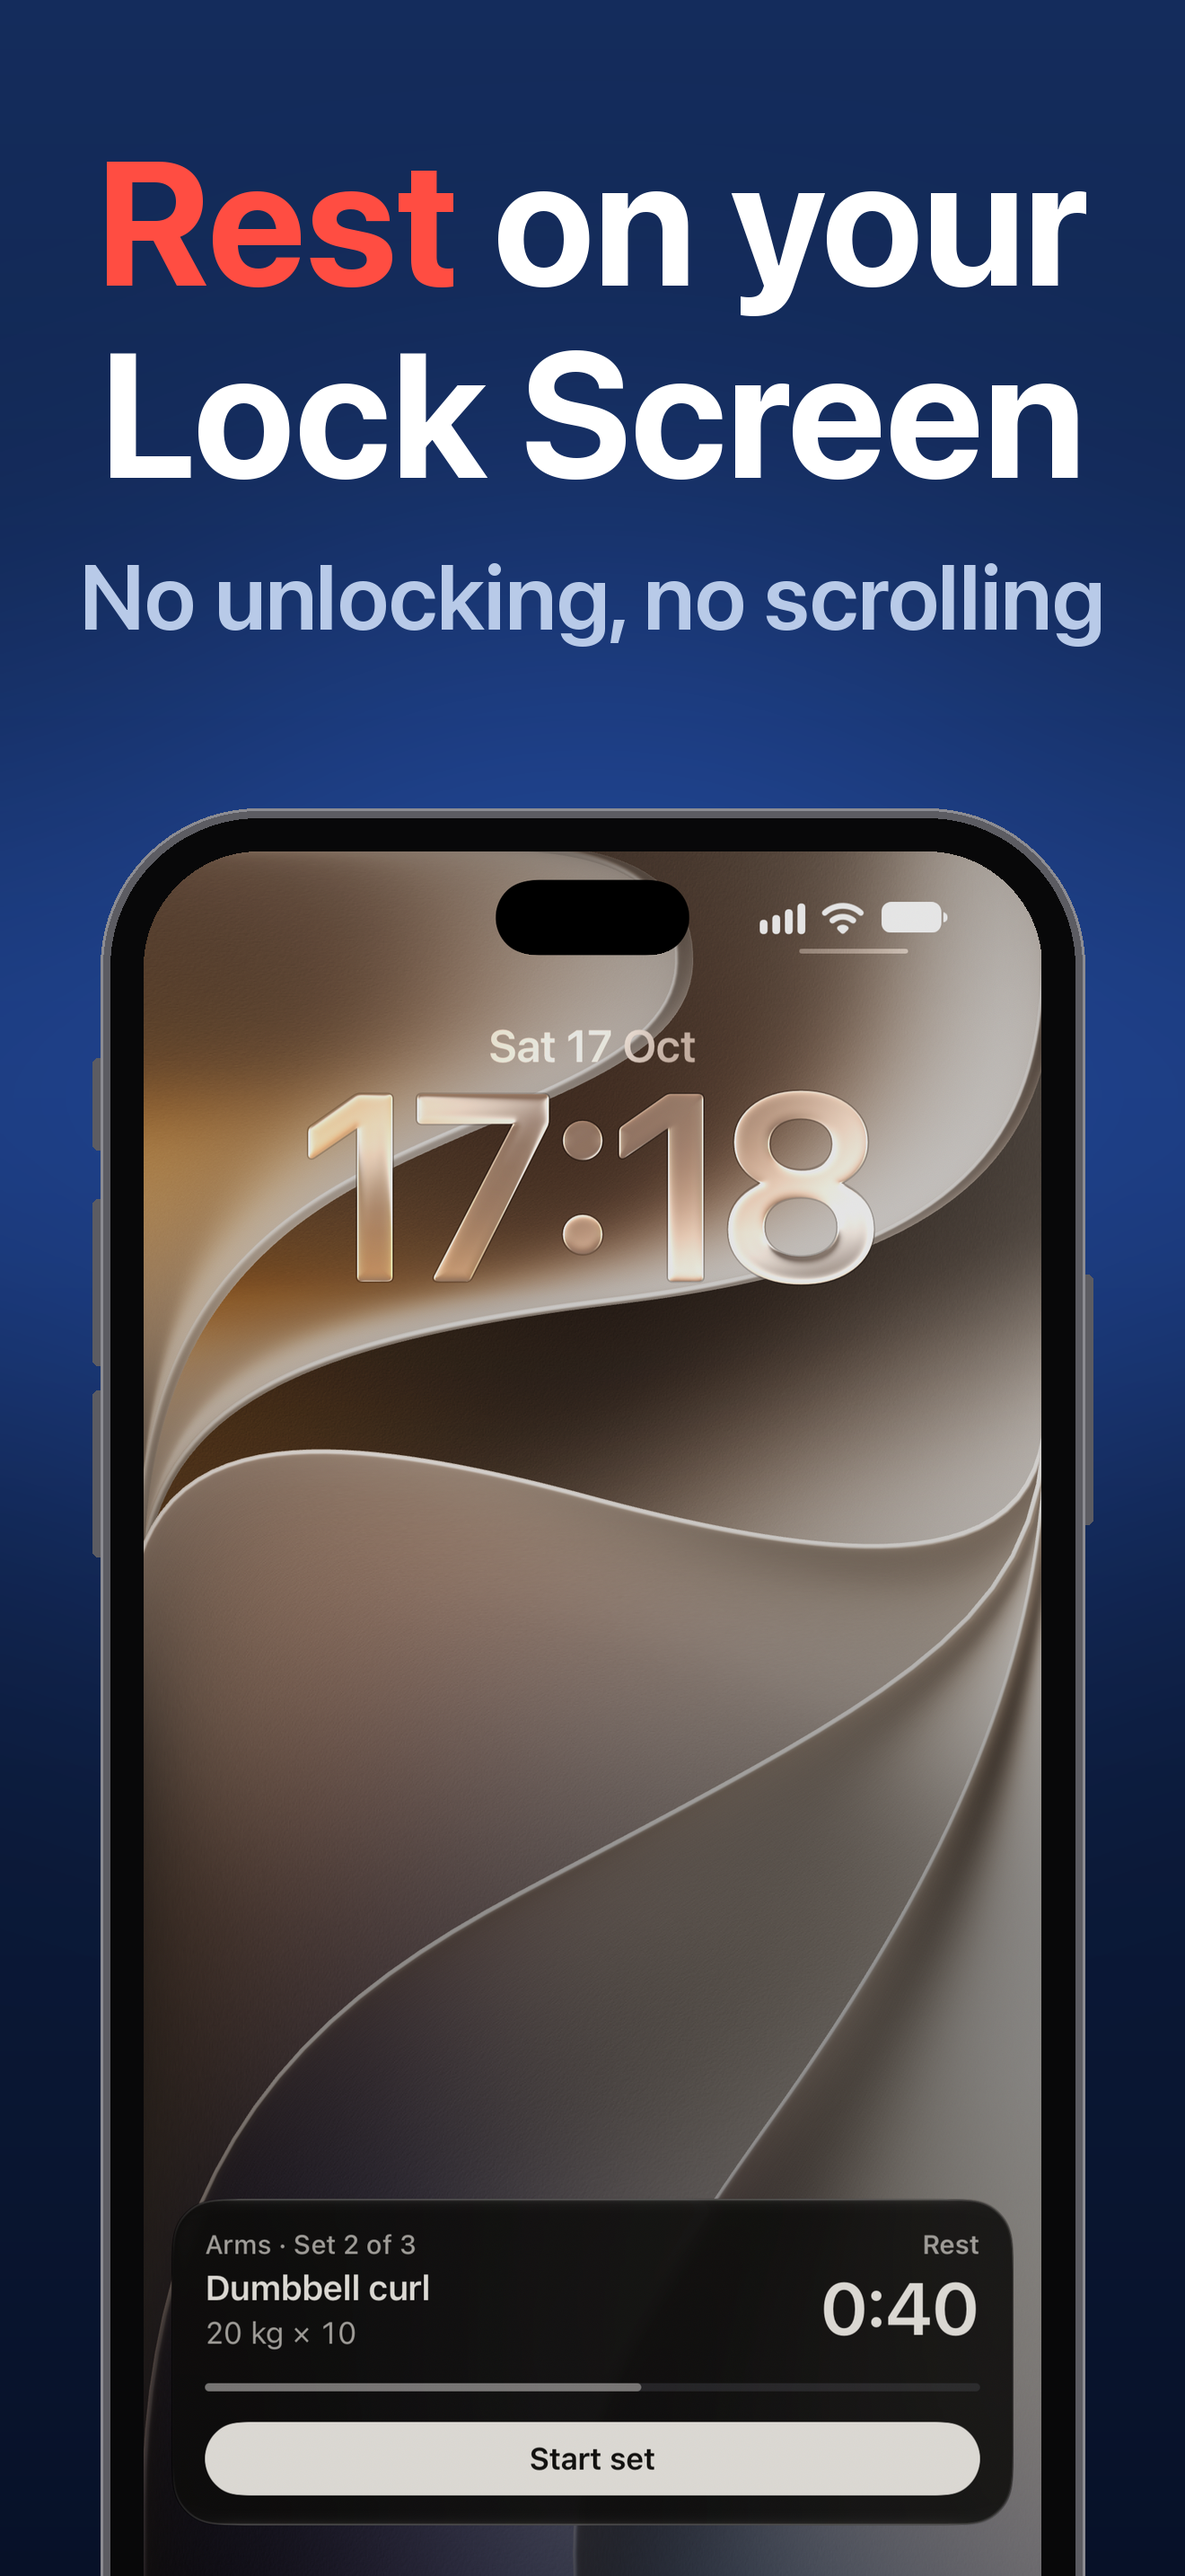
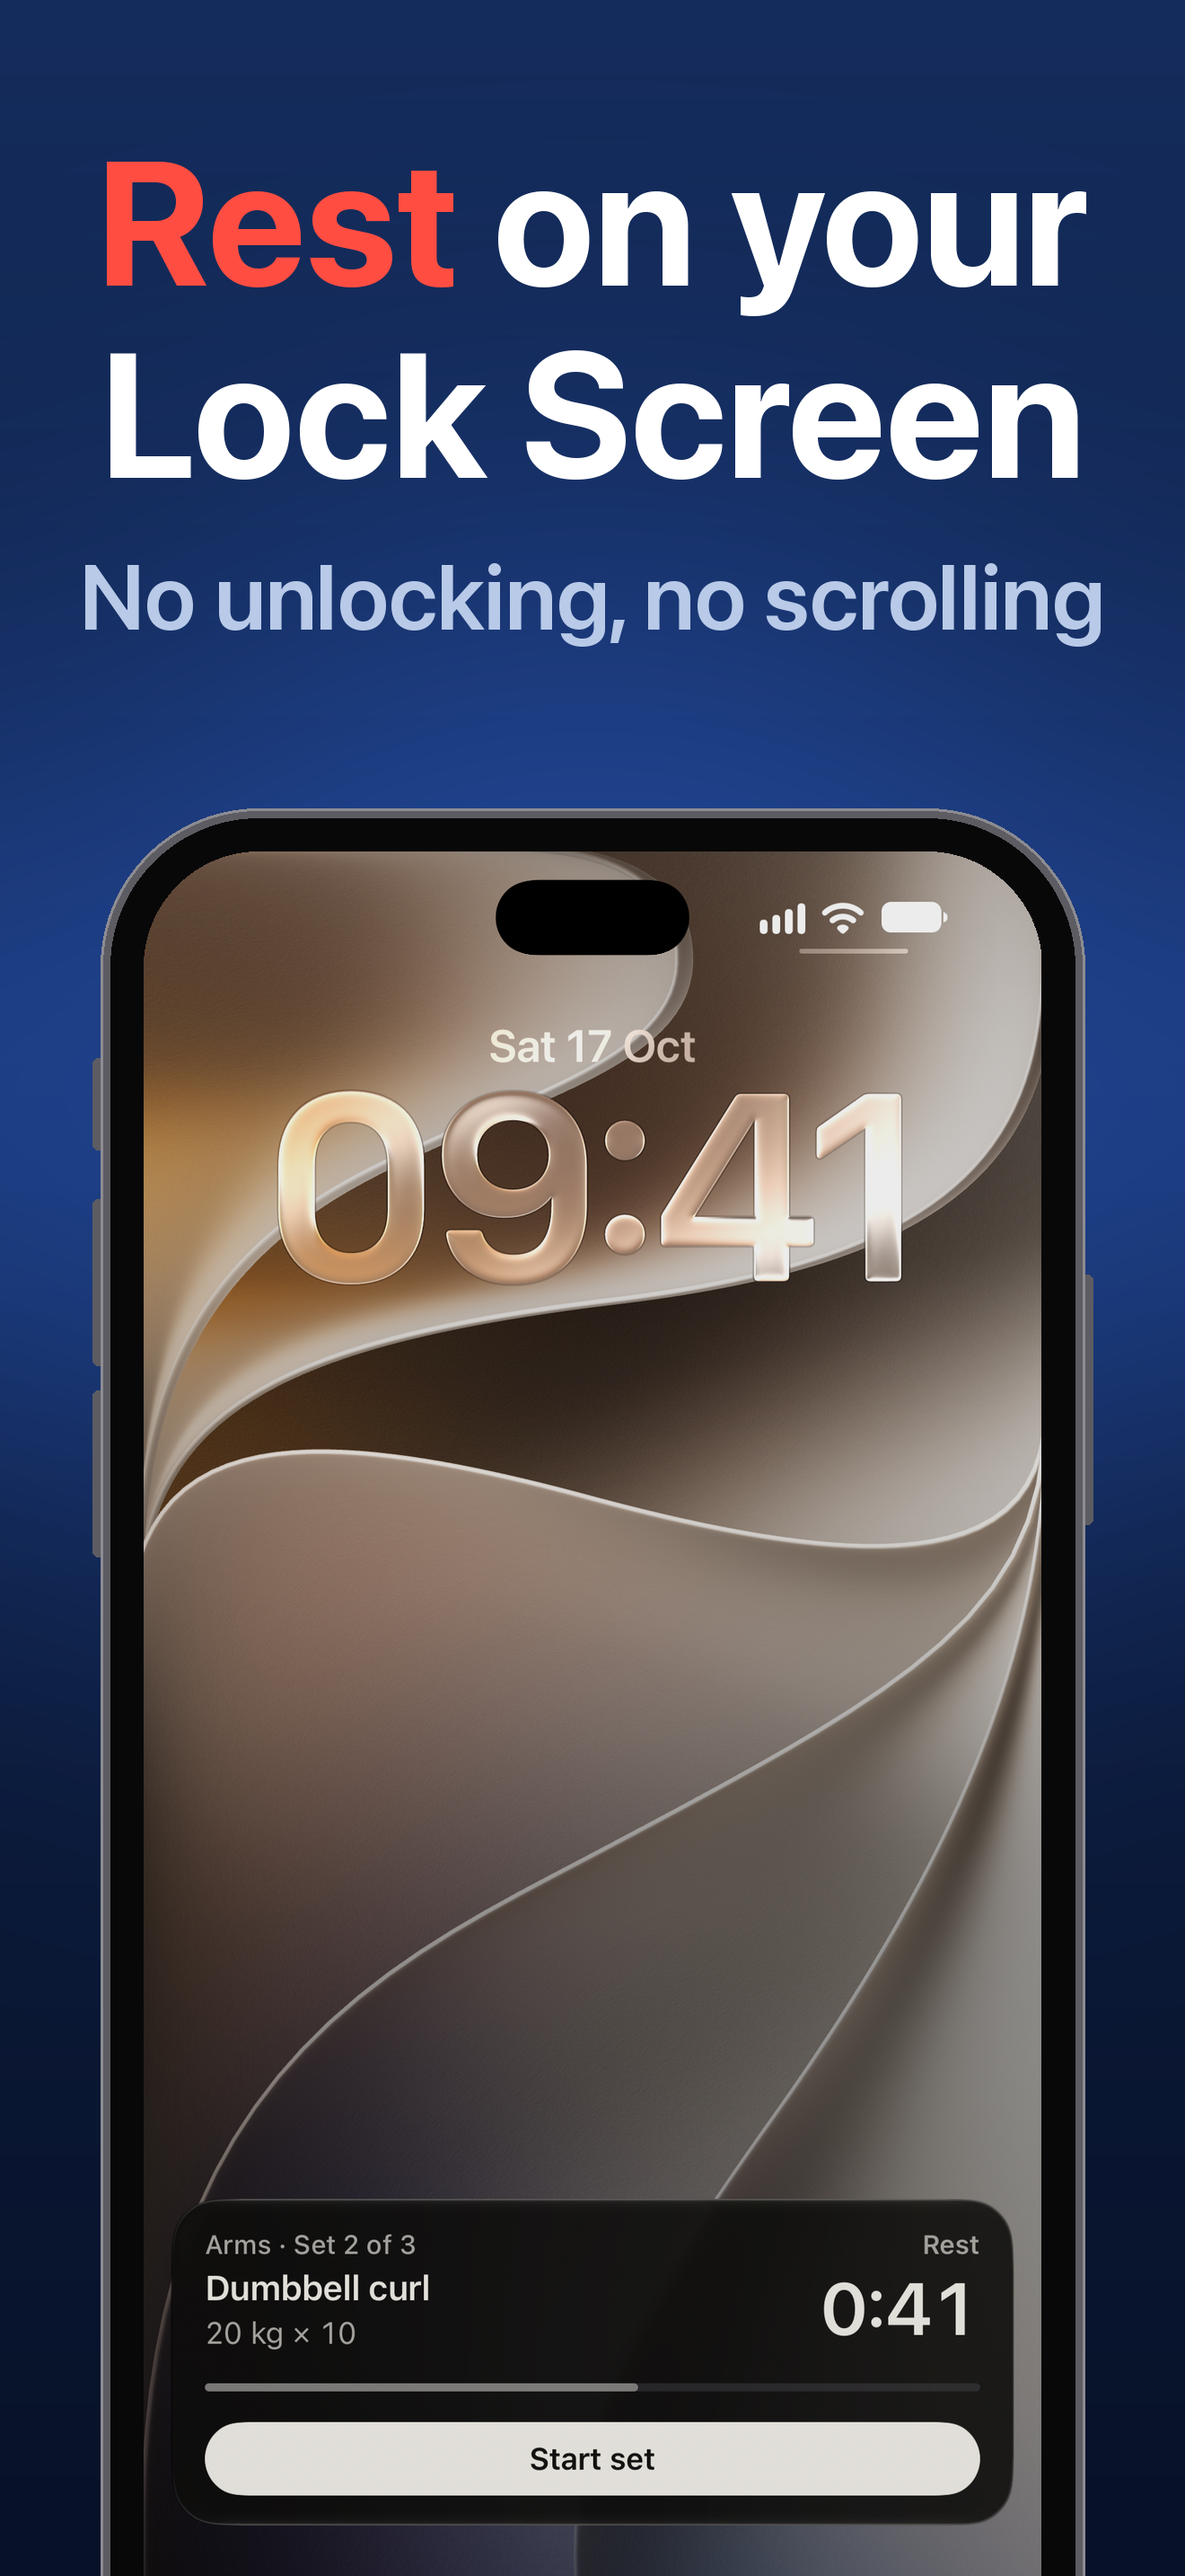
Rest Lock Screen at 09:41 on a real date
Recaptured in the minute it was 09:41 on Sat 17 Oct in St. John's
(simulator TZ set through launchd), since simctl's --time override can't
give the right weekday. Regenerates the four pages that show it: Rest
timer, Phone & focus, Doomscrolling and Social media.

Changed region(s): [[0.2174, 0.4034, 0.7765, 0.4965], [0.7765, 0.8689, 0.8386, 0.8999]]

diff --git a/VALIDATION.md b/VALIDATION.md
@@ -5,7 +5,7 @@
 Eleven custom product pages now have their screenshots, in [screenshots/store-cpp](screenshots/store-cpp/): Workout tracker, Gym log, PR tracker, Rest timer, Reels blocker, Doomscrolling, Social media, Phone & focus, Splits, Progress and Streak. Each has five slides in upload order at 1320×2868 (`6.9/`) and 1206×2622 (`6.3/`), plus an overview strip (`<page>-overview.png`). Each page opens with its own card, whose headline uses the words people search, and never shows the same capture twice. The pages, keyword assignments, promotional texts and upload order are in `docs/listing.md`; the Apple Ads plan points each ad group at its page. Every first card was looked at full size and every strip at overview size. Nothing was uploaded to App Store Connect.
 
 - **Framer.** `python3 scripts/frame-store-screenshots.py --custom-pages` reuses the default set's framing. It stops if a headline needs a third line or a line won't fit. A headline steps down only when a word is wider than the slide ("doomscrolling" is drawn at 178 pt with 80-px margins); a second line steps down to no less than 100 pt. Social media and Streak both use the Profile capture, so each lifts a different part of it out of the phone: the "Blocked while you train" card for Social media, October's calendar for Streak.
-- **Rest Lock Screen, recaptured.** The first capture read "Sat 14 Oct", but 14 Oct 2026 was a Wednesday. simctl's `--time` override draws the Lock Screen's weekday from a fixed calendar, whatever year it's given: 2026-10-13 showed Fri, -14 showed Sat, -17 showed Tue (all 3 days off). It was the same on iOS 26.5 and with the simulator in `en_GB`, so it isn't the runtime or the locale. The capture now uses the real clock: "Sat 17 Oct", 17:18, Rest 0:40, on `GymBlock Store CPP` (iPhone 18 Pro Max, iOS 27.0, now `en_GB`). The status bar overrides only signal and battery.
+- **Rest Lock Screen, recaptured twice.** The first capture read "Sat 14 Oct", but 14 Oct 2026 was a Wednesday. simctl's `--time` override draws the Lock Screen's weekday from a fixed calendar, whatever year it's given: 2026-10-13 showed Fri, -14 showed Sat, -17 showed Tue (all 3 days off). It was the same on iOS 26.5 and with the simulator in `en_GB`, so it isn't the runtime or the locale. A capture on the real clock then read 17:18, out of step with every other slide's 09:41. The final capture uses the real clock in a real time zone: the simulator's launchd `TZ` was set to America/St_Johns, where it was 09:41 on Saturday 17 Oct, and the Lock Screen was captured in that minute ("Sat 17 Oct", 09:41, Rest 0:41). The simulator is `GymBlock Store CPP` (iPhone 18 Pro Max, iOS 27.0, now `en_GB`), and its time zone was put back afterwards. The simulator's Settings has no Date & Time page, so the zone can't be set there.
 - **Splits capture (new).** `screenshots/store-2026-10-17/splits-up-next.png`: Home → Up next at full height, listing Pull (purple, checked as next), Push (blue), Legs (orange) and Free workout. The sample data has Arms, not Pull, so Arms was renamed Pull in the app's split editor, with Triceps extension swapped for Pull-up and Barbell row. On that simulator the sheet's Edit button didn't respond to taps; the row's long-press menu (Edit split) worked. Not investigated.
 - **Wording.** Some planned wordings didn't fit two lines and were changed (listed in `docs/listing.md`).
 - **Default set.** Regenerating it changes no layout, but the headline pixels differ slightly from the committed files (the system font has changed since 13 Oct), so `store-final/` was left as it was.

diff --git a/docs/listing.md b/docs/listing.md
@@ -161,7 +161,7 @@ Regenerate them with `python3 scripts/frame-store-screenshots.py --custom-pages`
 The Lock Screen puts the Live Activity at its foot, below where the phone is usually cut, so on the Rest timer and Phone & focus cards the phone sits 110 px higher and 7% smaller, and the whole activity shows above the bottom edge.
 
 **The two new captures** are from the simulator `GymBlock Store CPP` (iPhone 18 Pro Max, iOS 27.0):
-- `screenshots/store-2026-10-17/rest-lock-screen.png`: the rest Live Activity on the Lock Screen, Sat 17 Oct at 17:18, Arms, Dumbbell curl, 0:40 of rest left. It uses the real clock, because simctl's `--time` override draws the Lock Screen's weekday from a fixed calendar (2026-10-14 showed "Sat 14 Oct", today showed "Tue 17 Oct"), so 09:41 and a correct date can't both be had. To retake: clear the override (`xcrun simctl status_bar <device> clear`), override only the bars (`… override --batteryState discharging --batteryLevel 100 --dataNetwork wifi --wifiBars 3 --cellularMode active --cellularBars 4 --operatorName ""`), launch with `--ui-reset -workoutStage rest -storeShots YES`, and press the side button within the 40 seconds of rest left (the first press after a launch is sometimes ignored). The first time, iOS asks to allow Live Activities; allow, relaunch and lock again.
+- `screenshots/store-2026-10-17/rest-lock-screen.png`: the rest Live Activity on the Lock Screen, reading Sat 17 Oct, 09:41, Arms, Dumbbell curl, 0:41 of rest left. It's the real clock in a real time zone, not an override. simctl's `--time` override can show 09:41, but it draws the Lock Screen's weekday from a fixed calendar and ignores the year (2026-10-14 showed "Sat 14 Oct", 2026-10-17 "Tue 17 Oct"), so it can't give a correct weekday. Instead the simulator was put in a zone where it was 09:41 on Saturday 17 Oct (`xcrun simctl spawn <device> launchctl setenv TZ America/St_Johns`, then `launchctl kickstart -k user/foreground/com.apple.SpringBoard`) and captured during that minute. Afterwards `launchctl unsetenv TZ` and the same kickstart put it back. To retake: pick a zone where 09:41 is a minute or two away. Clear the status bar override and override only the bars (`xcrun simctl status_bar <device> override --batteryState discharging --batteryLevel 100 --dataNetwork wifi --wifiBars 3 --cellularMode active --cellularBars 4 --operatorName ""`). At 09:41, launch with `--ui-reset -workoutStage rest -storeShots YES` with the app in front (a launch while the Home Screen is up can leave it in the background, and then no activity starts) and press the side button. The first press after a launch is often ignored, so check and press again. The first time, iOS asks to allow Live Activities; allow, relaunch and lock again.
 - `screenshots/store-2026-10-17/splits-up-next.png`: Home → Up next with the sheet pulled to full height: Pull (purple, checked as next), Push (blue), Legs (orange), Free workout. The sample data's Arms split was renamed Pull in the split editor, with Triceps extension swapped for Pull-up and Barbell row. Launch with `--ui-reset --demo --skip-onboarding -storeShots YES` and the status bar at 09:41.
 
 ## US keywords from other languages
